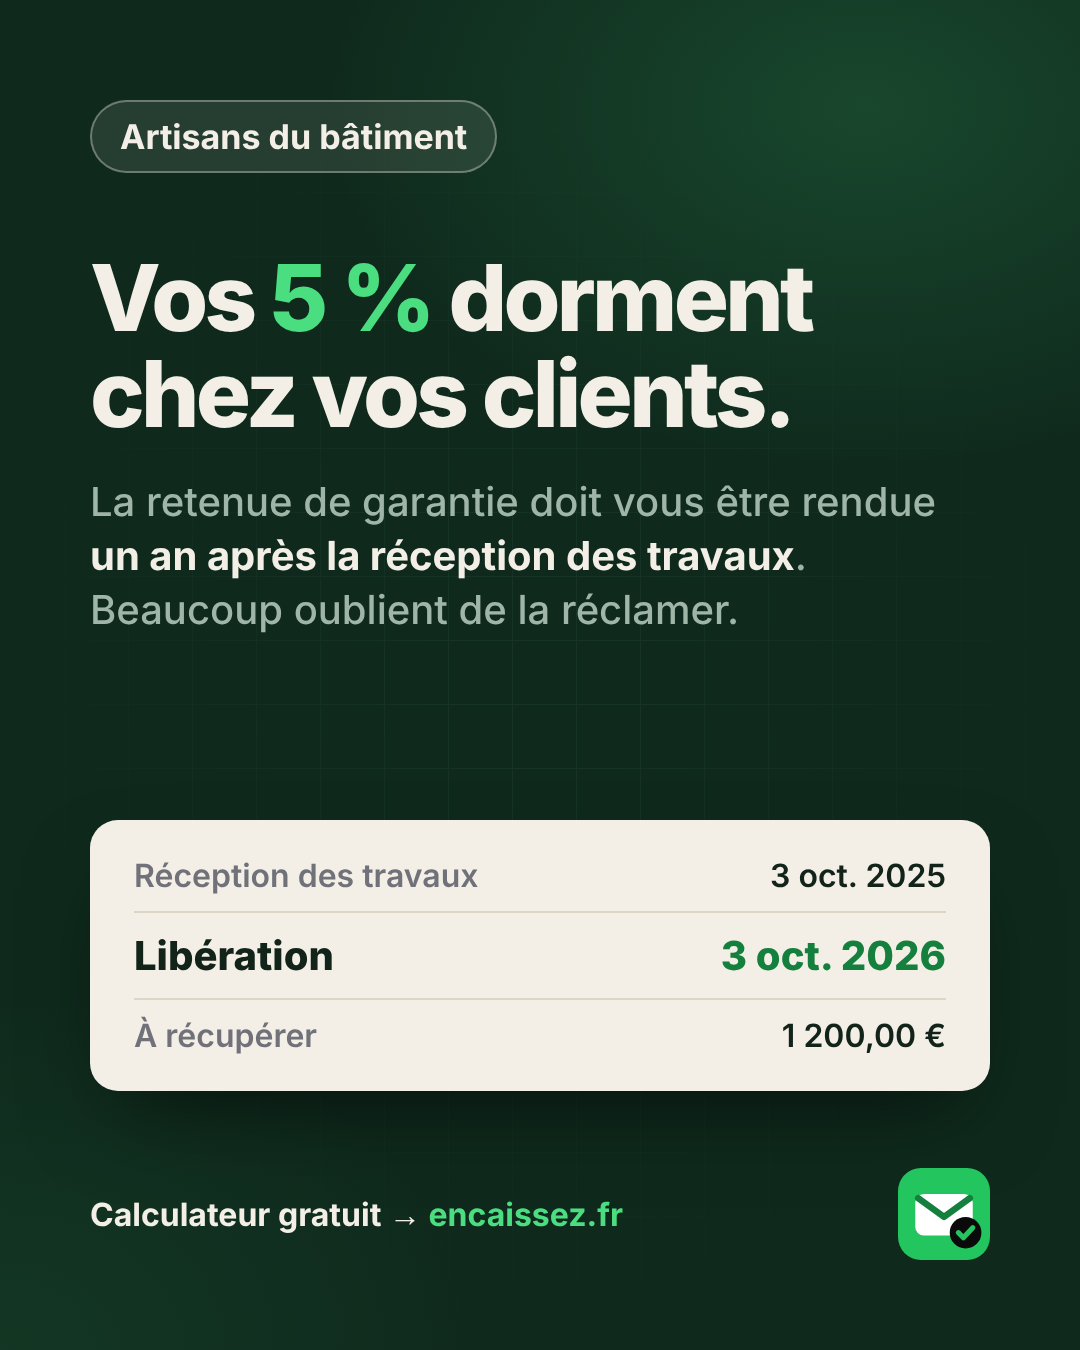
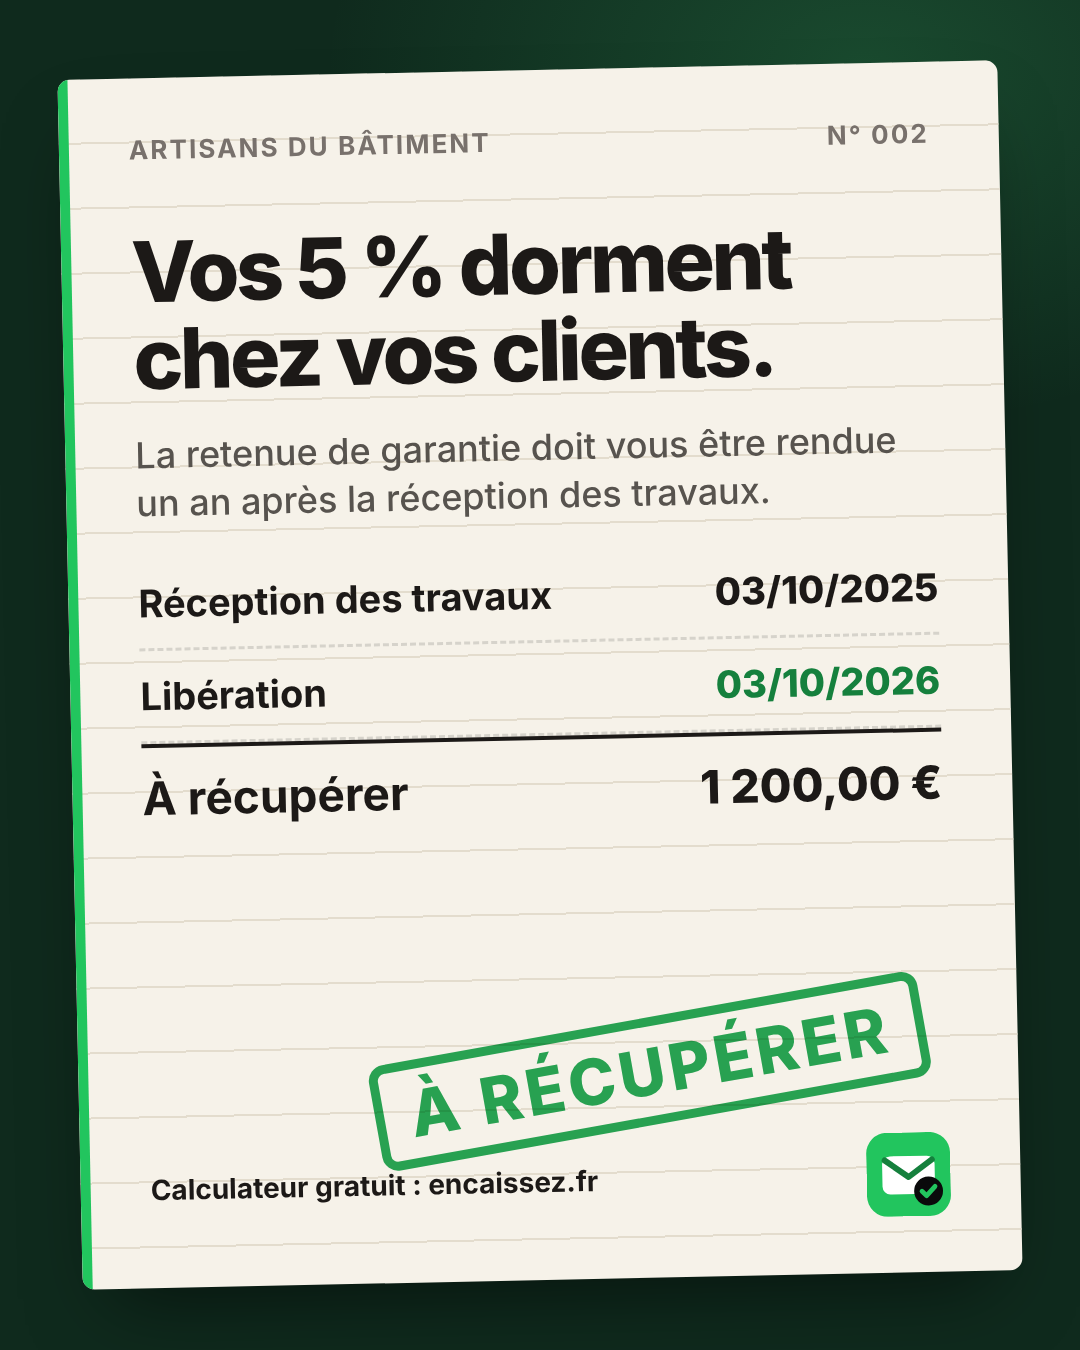
DA réseaux officielle : la facture sur vert profond (3 posts numérotés avec tampon)
Claude-Session: https://claude.ai/code/session_01RKFYoapanw4ypDTaPSKsRv

diff --git a/marketing/kit-reseaux/posts-facture.html b/marketing/kit-reseaux/posts-facture.html
@@ -1,0 +1,56 @@
+<!doctype html><html><head><meta charset="utf-8"><style>
+@font-face { font-family: Inter; font-weight: 500; src: url("../../relances/node_modules/@fontsource/inter/files/inter-latin-500-normal.woff2"); }
+@font-face { font-family: Inter; font-weight: 700; src: url("../../relances/node_modules/@fontsource/inter/files/inter-latin-700-normal.woff2"); }
+@font-face { font-family: Inter; font-weight: 800; src: url("../../relances/node_modules/@fontsource/inter/files/inter-latin-800-normal.woff2"); }
+*{box-sizing:border-box;margin:0} body{font-family:Inter,sans-serif;background:#ccc;display:flex;flex-wrap:wrap;gap:30px;padding:30px;width:3500px}
+.p{width:1080px;height:1350px;position:relative;overflow:hidden;flex:none}
+.light{background:#eceae4}
+.deep{background:radial-gradient(900px 600px at 80% 5%,rgba(74,222,128,.18),transparent 60%),#0f2a1d}
+.sheet{position:absolute;left:70px;right:70px;top:70px;bottom:70px;background:#fffdf8;border-radius:12px;box-shadow:0 40px 80px -30px rgba(0,0,0,.55);color:#1c1917;overflow:hidden}
+.deep .sheet{transform:rotate(-1.2deg);background:#f6f2e9}
+.lines{position:absolute;inset:0;background-image:repeating-linear-gradient(transparent 0 63px,#e3e9ee 63px 65px)}
+.deep .lines{background-image:repeating-linear-gradient(transparent 0 63px,#e3dccd 63px 65px)}
+.edge{position:absolute;left:0;top:0;bottom:0;width:10px;background:#22c55e}
+.hd{position:absolute;left:70px;right:70px;top:56px;display:flex;justify-content:space-between;font-size:26px;font-weight:700;color:#78716c;letter-spacing:.08em}
+.body{position:absolute;left:70px;right:70px;top:150px}
+.w{font-weight:800;letter-spacing:-.04em;line-height:1.04}
+.stamp{position:absolute;border:9px solid #16a34a;color:#16a34a;border-radius:16px;padding:6px 26px;font-weight:800;letter-spacing:4px;opacity:.92;mix-blend-mode:multiply}
+.stamp.red{border-color:#dc2626;color:#dc2626}
+.ft{position:absolute;left:70px;right:70px;bottom:56px;display:flex;justify-content:space-between;align-items:center;font-size:28px;font-weight:700}
+.row{display:flex;justify-content:space-between;align-items:baseline;padding:22px 0;border-bottom:3px dashed #d6d3cb;font-size:38px;font-weight:600}
+.row b{font-weight:800}
+.tot{border-bottom:none;border-top:4px solid #1c1917;font-size:46px}
+</style></head><body>
+<script>
+const posts = [
+ { id:"facture-40", hd:["LE SAVIEZ-VOUS ?","N° 001"], body:`
+    <div class="w" style="font-size:80px">Un client pro qui paie en retard vous doit</div>
+    <div class="w" style="font-size:300px;letter-spacing:-.06em;margin-top:10px">40 €</div>
+    <div class="w" style="font-size:54px;margin-top:6px">d'indemnité. <span style="color:#78716c">En plus des pénalités de retard.</span></div>`,
+   stamp:`<div class="stamp" style="right:80px;top:880px;transform:rotate(-10deg);font-size:72px">À RÉCLAMER</div>`,
+   ft:`<span>Calcul gratuit : encaissez.fr/outils</span>` },
+ { id:"facture-retenue", hd:["ARTISANS DU BÂTIMENT","N° 002"], body:`
+    <div class="w" style="font-size:84px">Vos 5 % dorment chez vos clients.</div>
+    <div style="font-size:36px;color:#57534e;margin:28px 0 30px;line-height:1.35;font-weight:500">La retenue de garantie doit vous être rendue un an après la réception des travaux.</div>
+    <div class="row"><span>Réception des travaux</span><b>03/10/2025</b></div>
+    <div class="row"><span>Libération</span><b style="color:#15803d">03/10/2026</b></div>
+    <div class="row tot"><span>À récupérer</span><b>1 200,00 €</b></div>`,
+   stamp:`<div class="stamp" style="right:90px;top:950px;transform:rotate(-9deg);font-size:64px">À RÉCUPÉRER</div>`,
+   ft:`<span>Calculateur gratuit : encaissez.fr</span>` },
+ { id:"facture-produit", hd:["RELANCES AUTOMATIQUES","N° 003"], body:`
+    <div class="w" style="font-size:84px">Vos relances partent toutes seules.</div>
+    <div style="margin-top:40px">
+      <div class="row"><span><b>J-3</b> · Rappel avant échéance</span><span style="color:#15803d">✓</span></div>
+      <div class="row"><span><b>J+1</b> · Rappel amical + facture PDF</span><span style="color:#15803d">✓</span></div>
+      <div class="row"><span><b>J+7</b> · Relance ferme</span><span style="color:#15803d">✓</span></div>
+      <div class="row"><span><b>J+15</b> · Dernier avis</span><span style="color:#a8a29e">—</span></div>
+    </div>`,
+   stamp:`<div class="stamp" style="right:90px;top:760px;transform:rotate(-12deg);font-size:96px">PAYÉE ✓</div>`,
+   ft:`<span style="background:#1c1917;color:#fff;border-radius:999px;padding:16px 30px">Essai gratuit · encaissez.fr</span>` },
+];
+for (const mode of ["light","deep"]) for (const p of posts) document.body.insertAdjacentHTML("beforeend", `
+  <div class="p ${mode}" id="${mode}-${p.id}"><div class="sheet"><div class="lines"></div><div class="edge"></div>
+    <div class="hd"><span>${p.hd[0]}</span><span>${p.hd[1]}</span></div>
+    <div class="body">${p.body}</div>${p.stamp}
+    <div class="ft">${p.ft}<img src="logo.svg" width="84" height="84"></div></div></div>`);
+</script></body></html>

diff --git a/marketing/kit-reseaux/GUIDE.md b/marketing/kit-reseaux/GUIDE.md
@@ -4,7 +4,7 @@
 
 | Élément | Valeur |
 |---|---|
-| **Style** | **Vert profond** : sombre et élégant comme un carnet relié, sans faire « appli de finance » |
+| **Style** | **La facture sur vert profond** : chaque post est une feuille de facture crème, numérotée, posée sur un fond vert profond, avec un tampon vert |
 | **Logo** | L'enveloppe validée (`logo.svg`) : une relance qui a abouti |
 | **Fond** | Vert profond `#0F2A1D`, avec un léger halo vert en haut |
 | **Vert vif** | `#4ADE80` : chiffres clés, mots importants, « payé ». Le vert du logo reste `#22C55E` |
@@ -16,6 +16,15 @@
 **Le ton :** simple, direct, rassurant. On parle comme un artisan à un autre artisan, sans jargon. On vouvoie. On ne culpabilise jamais le client qui paie en retard.
 
 **Une règle :** un message par visuel, en gros. Si on doit plisser les yeux, c'est raté.
+
+**Comment faire un nouveau post :**
+1. Une feuille de facture crème (`#F6F2E9`), légèrement penchée, sur le fond vert profond.
+2. En haut à gauche, le sujet en petites capitales (« LE SAVIEZ-VOUS ? », « ARTISANS DU BÂTIMENT »…). En haut à droite, le **numéro du post** (N° 004, N° 005…) : ça crée une série.
+3. Un titre très gras, puis le chiffre ou le contenu, si possible présenté comme des lignes de facture.
+4. **Un tampon vert** qui résume l'action : « À RÉCLAMER », « À RÉCUPÉRER », « PAYÉE ✓ », « J+7 »…
+5. En bas, le lien (encaissez.fr…) et le logo.
+
+Les posts se modifient dans `posts-facture.html` (ou en demandant à Claude).
 
 ---
 
@@ -31,7 +40,7 @@
 | `post-produit.png` | Post de présentation d'Encaissez | 1080 × 1350 |
 | `../../video/out/encaissez-pub-vertical.mp4` | Reels, TikTok, Stories | 1080 × 1920 |
 
-Pour modifier un visuel, ouvrez `kit.html` dans un navigateur (ou demandez à Claude).
+Pour modifier un visuel : la photo de profil et les bannières sont dans `kit.html`, les posts dans `posts-facture.html` (ou demandez à Claude).
 
 ---
 
